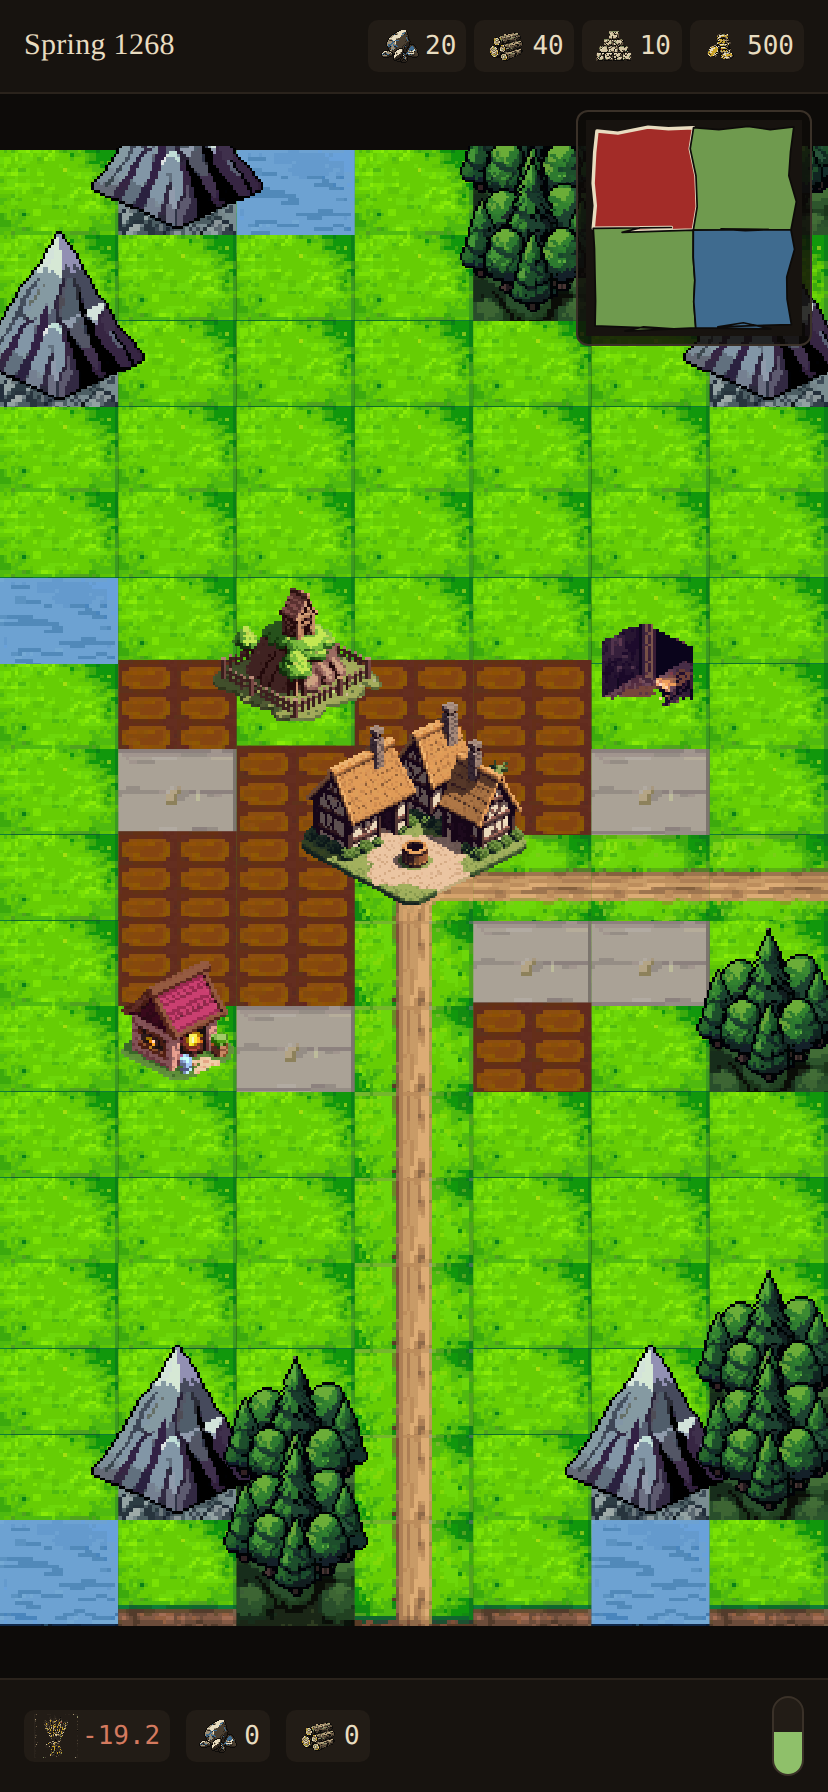
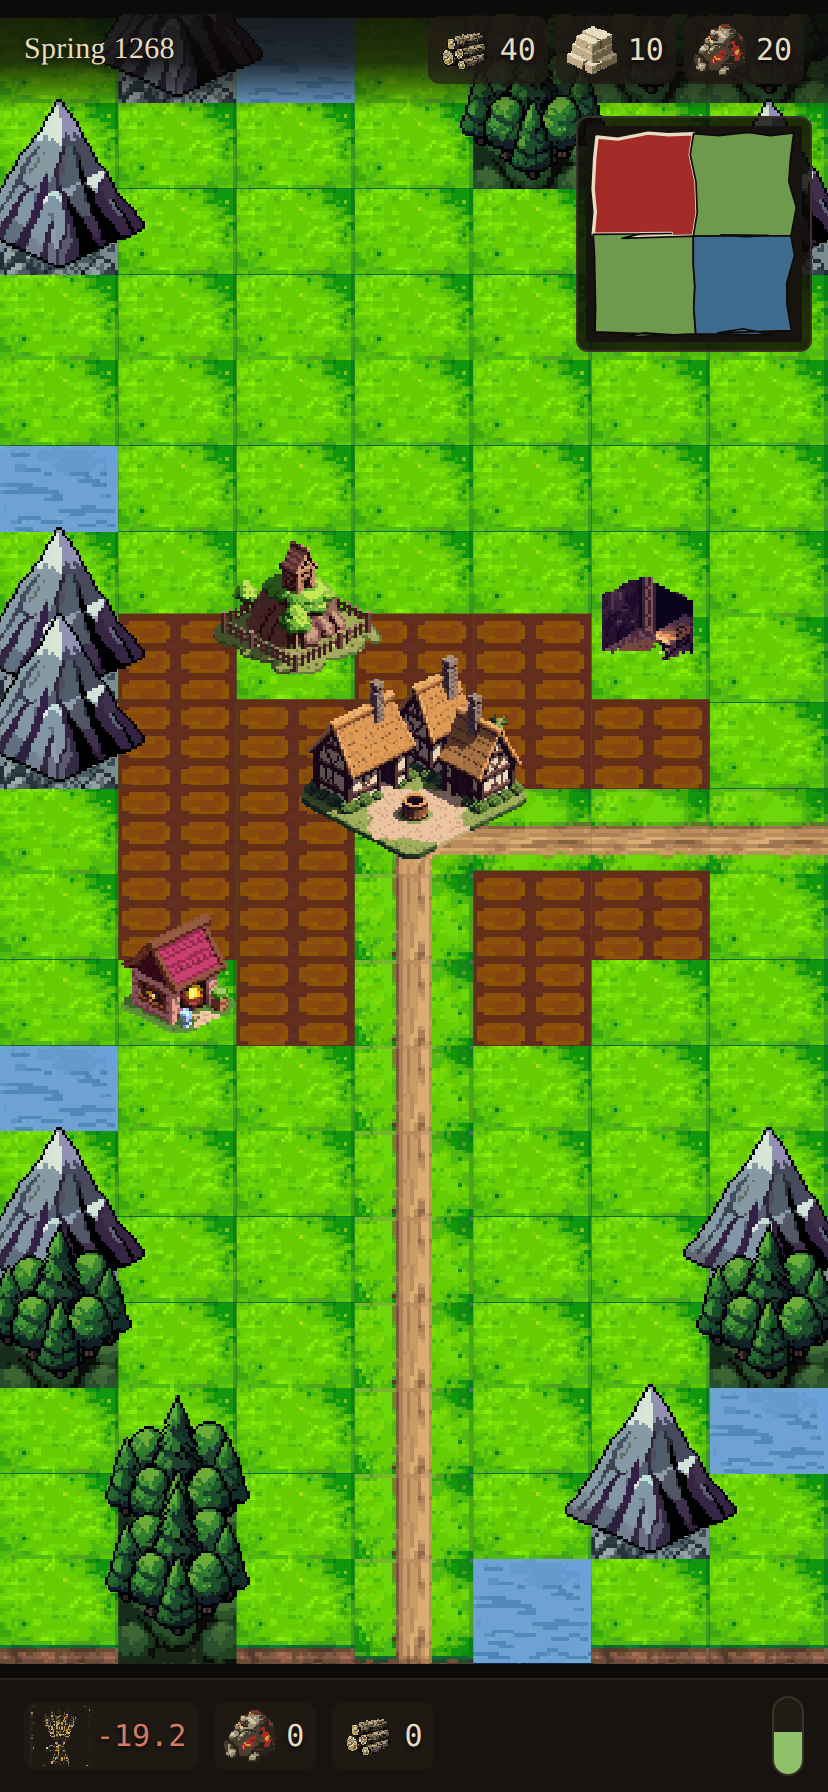
Top bar becomes an overlay showing the three pooled materials
The bar floats over the land rather than reserving a strip of its own, so the
map runs full-bleed to the top of the screen. On a phone the map is what
deserves the pixels; chrome with its own band costs a row of county for
information that is only glanced at. A gradient fading to transparent keeps
the terrain readable underneath while still giving the digits contrast against
grass, soil or water.

An overlay only means anything if there is something under it. Freeing the
header's height did not make the map taller — the map is sized by fitting the
screen's width — so the reclaimed space came back as letterboxing and the bar
sat on a black band, which is an opaque bar with extra steps. The county now
runs to 19 rows so it is at least as tall as the screen.

Wood, stone and iron ore, in the order the spec names them. Gold comes out:
it pools like the others but is money rather than material and belongs behind
the Treasury. Food stays out for a better reason — it is held per county and
must be carted, so one realm-wide number for it would be a lie.

The ore and stone icons were both grey rubble piles and easy to confuse, which
is bad for the one distinction the four-county map is built on: a county holds
stone OR ore, never both. Ore is now dark rock with rust-red veins and a broken
face showing metal; stone is a stack of dressed cream blocks. The fix belongs
in the art rather than in a caption — the whole principle is images over words,
[…]

diff --git a/src/ui/county/CountyOverhead.tsx b/src/ui/county/CountyOverhead.tsx
@@ -299,27 +299,41 @@ function IndustrySprite({ site }: { site: IndustrySiteState }) {
 }
 
 /**
- * Top bar.
+ * The globally pooled raw materials, in the order the spec names them.
  *
- * Year and season, then the globally pooled raw materials as picture plus
- * number. No labels: the governing principle is images over words, and a
- * player who cannot tell ore from wood at a glance will not be helped by a
- * four-letter caption under it either.
+ * These three and no others: they are the resources that pool empire-wide with
+ * no shipping decision attached, which is exactly why they can be shown as one
+ * realm-wide total. Food is deliberately absent — it is held per county and
+ * must be carted, so a single number for it would be a lie. Gold pools too but
+ * is money rather than material, and belongs behind the Treasury.
+ */
+const POOLED_MATERIALS = ['wood', 'stone', 'ore'] as const;
+
+/**
+ * Top bar — an OVERLAY, not a header.
+ *
+ * It floats over the map rather than taking a strip of its own, so the land
+ * runs full-bleed to the top of the screen. On a phone the map is the thing
+ * worth the pixels; chrome that reserves its own band costs a row of county
+ * for information that is only glanced at.
+ *
+ * Year and season, then each material as picture plus number. No labels: the
+ * governing principle is images over words, and a player who cannot tell ore
+ * from stone at a glance is not helped by a five-letter caption under it —
+ * they are helped by the two icons not looking alike, which is a job for the
+ * art, not for text.
  */
 function TopBar({ match, label }: { match: MatchState; label: string }) {
   const you = match.players[0];
-  // Materials pool empire-wide, so they belong in the top bar rather than in
-  // any one county's panel — there is no shipping decision attached to them.
   const purse = you ? match.treasuries[you.id] : undefined;
 
   return (
     <header className="ov-top">
       <div className="ov-when">{label}</div>
       <div className="ov-res">
-        <Readout resource="ore" value={purse?.ore ?? 0} />
-        <Readout resource="wood" value={purse?.wood ?? 0} />
-        <Readout resource="stone" value={purse?.stone ?? 0} />
-        <Readout resource="gold" value={purse?.gold ?? 0} />
+        {POOLED_MATERIALS.map((resource) => (
+          <Readout key={resource} resource={resource} value={purse?.[resource] ?? 0} />
+        ))}
       </div>
     </header>
   );
@@ -350,7 +364,7 @@ function Readout({
       {art.missing || !art.url ? (
         <span className="ov-chip" aria-hidden />
       ) : (
-        <img src={art.url} alt={resource} width={22} height={22} />
+        <img src={art.url} alt={resource} width={30} height={30} />
       )}
       <span className="ov-num">{text}</span>
     </div>

diff --git a/src/ui/styles.css b/src/ui/styles.css
@@ -738,7 +738,13 @@ body {
   font-size: 9px;
   fill: var(--parchment);
   letter-spacing: 0.04em;
+  /* The bar itself must not eat taps meant for the map beneath it; its own
+     controls opt back in. */
   pointer-events: none;
+}
+
+.ov-top > * {
+  pointer-events: auto;
 }
 
 /* ------------------------------------------------------------- labour --- */
@@ -908,6 +914,7 @@ body {
    --------------------------------------------------------------------------- */
 
 .ov {
+  position: relative;
   display: flex;
   flex-direction: column;
   height: 100vh;
@@ -918,14 +925,26 @@ body {
 }
 
 .ov-top {
+  /* Floats over the land rather than reserving a band of its own. */
+  position: absolute;
+  top: 0;
+  left: 0;
+  right: 0;
+  z-index: 2;
   display: flex;
   align-items: center;
   gap: 10px;
-  padding: 10px 12px calc(10px + env(safe-area-inset-top, 0px));
-  padding-top: calc(10px + env(safe-area-inset-top, 0px));
-  background: #17130f;
-  border-bottom: 1px solid #2a231c;
-  flex: 0 0 auto;
+  padding: 8px 12px 14px;
+  padding-top: calc(8px + env(safe-area-inset-top, 0px));
+  /* Fading to transparent keeps the map readable underneath while still
+     giving the numbers enough contrast to sit against terrain of any colour. */
+  background: linear-gradient(
+    to bottom,
+    rgba(13, 11, 9, 0.92) 0%,
+    rgba(13, 11, 9, 0.78) 55%,
+    rgba(13, 11, 9, 0) 100%
+  );
+  pointer-events: none;
 }
 
 .ov-when {
@@ -933,6 +952,7 @@ body {
   font-size: 15px;
   letter-spacing: 0.01em;
   white-space: nowrap;
+  text-shadow: 0 1px 3px rgba(0, 0, 0, 0.9);
 }
 
 .ov-res {
@@ -944,10 +964,10 @@ body {
 .ov-readout {
   display: flex;
   align-items: center;
-  gap: 2px;
-  padding: 2px 5px;
-  border-radius: 5px;
-  background: #221c16;
+  gap: 3px;
+  padding: 2px 6px 2px 3px;
+  border-radius: 6px;
+  background: rgba(34, 28, 22, 0.72);
 }
 
 .ov-readout img {
@@ -958,16 +978,18 @@ body {
 /* Placeholder for a resource whose icon has not been generated. Deliberately
    featureless — it must not be mistakable for finished art. */
 .ov-chip {
-  width: 22px;
-  height: 22px;
+  width: 30px;
+  height: 30px;
   border-radius: 3px;
   background: #4a3f33;
 }
 
 .ov-num {
   font-family: 'SF Mono', Menlo, Consolas, monospace;
-  font-size: 13px;
+  font-size: 15px;
   font-variant-numeric: tabular-nums;
+  /* The bar sits on open map, so the digits need to hold up over grass. */
+  text-shadow: 0 1px 2px rgba(0, 0, 0, 0.85);
 }
 
 .ov-readout.up .ov-num { color: #8fc06a; }
@@ -1000,7 +1022,7 @@ body {
 
 .ov-corner {
   position: absolute;
-  top: 8px;
+  top: 58px;
   right: 8px;
   padding: 4px;
   border-radius: 6px;

diff --git a/src/checkpoint.tsx b/src/checkpoint.tsx
@@ -30,8 +30,12 @@ const match = createMatch({
   // count — not TILE_W — is what sets how big a tile lands on the glass. Seven
   // across gives roughly 59pt tiles: still clear of the 44-48pt tap floor the
   // spec sets, but far enough back that the county reads as land rather than as
-  // four tiles and a house. Rows follow from a portrait phone's aspect.
-  interiorGrid: { cols: 7, rows: 17 },
+  // four tiles and a house.
+  //
+  // Rows are chosen so the map is at least as tall as the screen, which is what
+  // lets the top bar overlay LAND rather than a black band — a translucent bar
+  // over letterboxing is just an opaque bar with extra steps.
+  interiorGrid: { cols: 7, rows: 19 },
   seats: [
     {
       displayName: 'You',
